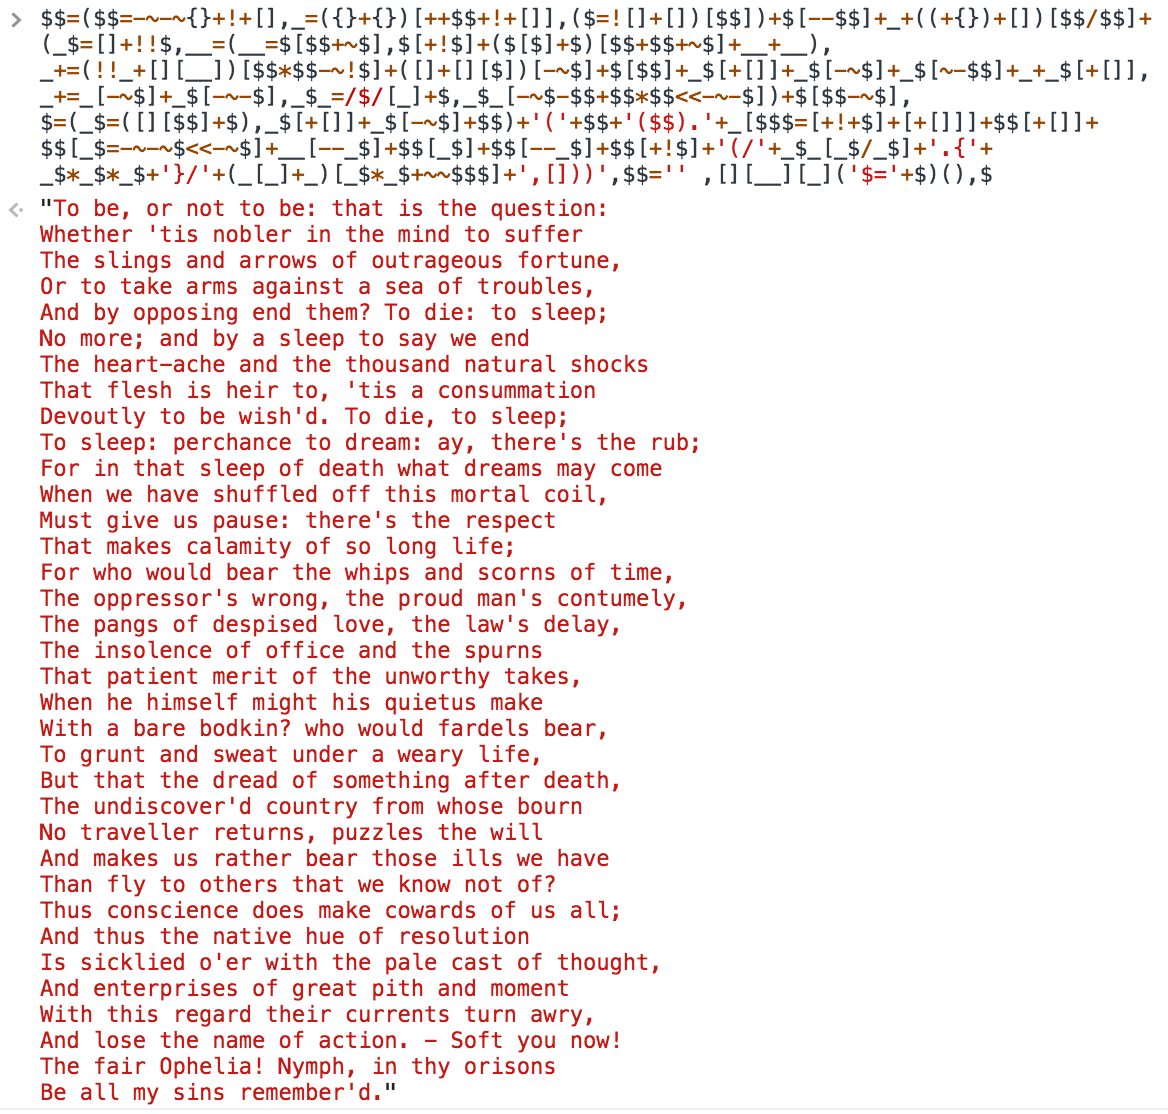
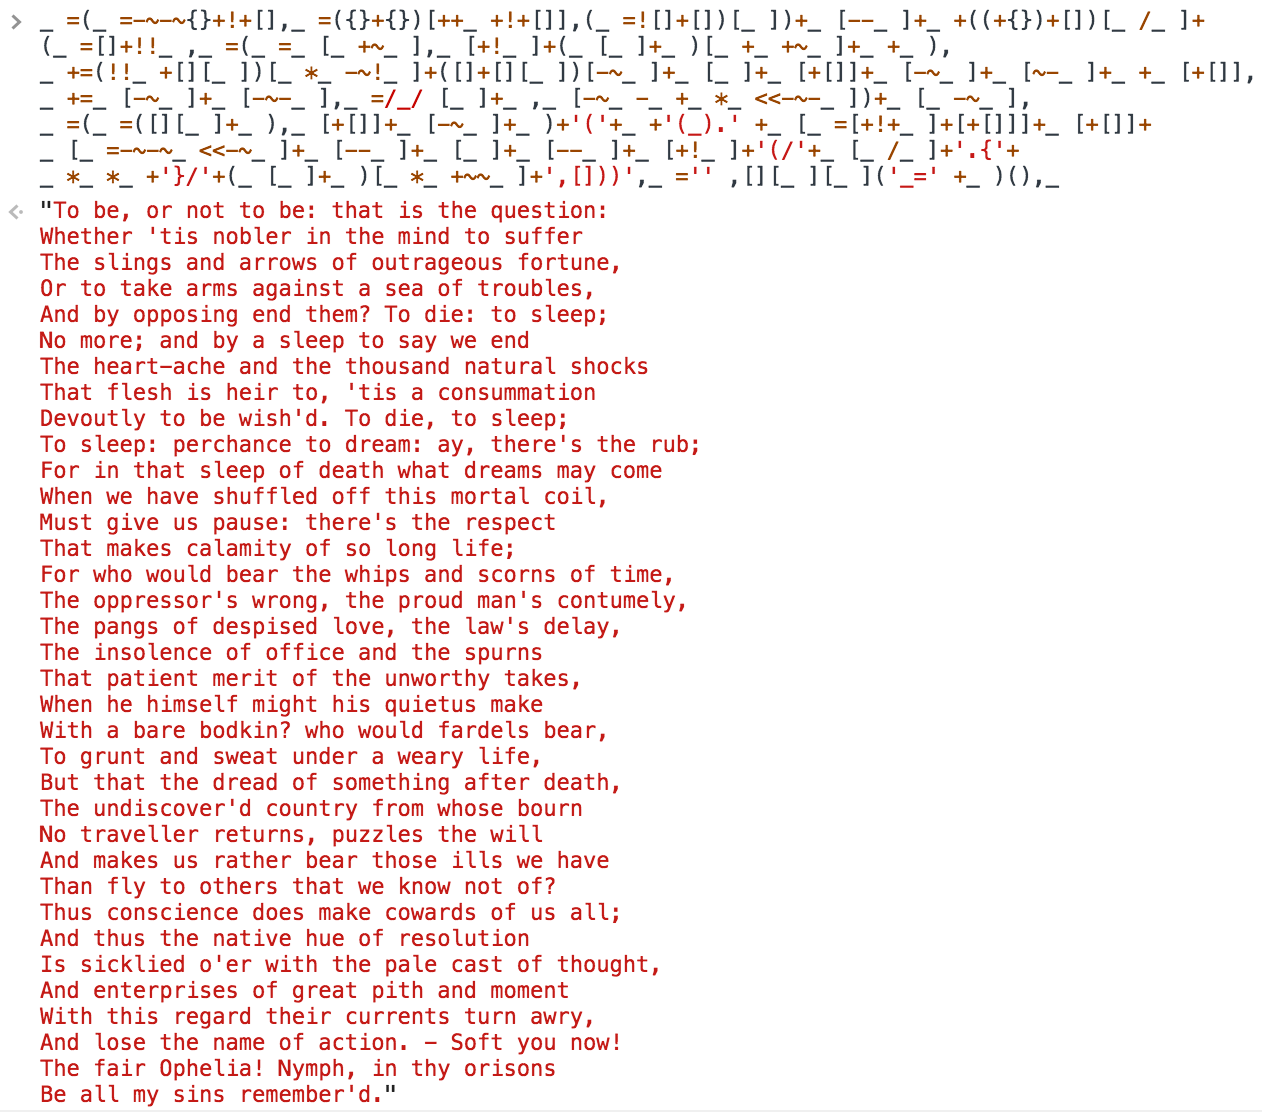
Encoded var names

Changed region(s): [[0.0308, 0.0, 0.9863, 1.0]]

diff --git a/hamlet.js b/hamlet.js
@@ -1,7 +1,7 @@
-$$=($$=-~-~{}+!+[],_=({}+{})[++$$+!+[]],($=![]+[])[$$])+$[--$$]+_+((+{})+[])[$$/$$]+
-(_$=[]+!!$,__=(__=$[$$+~$],$[+!$]+($[$]+$)[$$+$$+~$]+__+__),
-_+=(!!_+[][__])[$$*$$-~!$]+([]+[][$])[-~$]+$[$$]+_$[+[]]+_$[-~$]+_$[~-$$]+_+_$[+[]],
-_+=_[-~$]+_$[-~-$],_$_=/$/[_]+$,_$_[-~$-$$+$$*$$<<-~-$])+$[$$-~$],
-$=(_$=([][$$]+$),_$[+[]]+_$[-~$]+$$)+'('+$$+'($$).'+_[$$$=[+!+$]+[+[]]]+$$[+[]]+
-$$[_$=-~-~$<<-~$]+__[--_$]+$$[_$]+$$[--_$]+$$[+!$]+'(/'+_$_[_$/_$]+'.{'+
-_$*_$*_$+'}/'+(_[_]+_)[_$*_$+~~$$$]+',[]))',$$='',[][__][_]('$='+$)(),$
+_=(_=-~-~{}+!+[],_=({}+{})[++_+!+[]],(_=![]+[])[_])+_[--_]+_+((+{})+[])[_/_]+
+(_=[]+!!_,_=(_=_[_+~_],_[+!_]+(_[_]+_)[_+_+~_]+_+_),
+_+=(!!_+[][_])[_*_-~!_]+([]+[][_])[-~_]+_[_]+_[+[]]+_[-~_]+_[~-_]+_+_[+[]],
+_+=_[-~_]+_[-~-_],_=/_/[_]+_,_[-~_-_+_*_<<-~-_])+_[_-~_],
+_=(_=([][_]+_),_[+[]]+_[-~_]+_)+'('+_+'(_).'+_[_=[+!+_]+[+[]]]+_[+[]]+
+_[_=-~-~_<<-~_]+_[--_]+_[_]+_[--_]+_[+!_]+'(/'+_[_/_]+'.{'+
+_*_*_+'}/'+(_[_]+_)[_*_+~~_]+',[]))',_='',[][_][_]('_='+_)(),_

diff --git a/hamlet_encoder.php b/hamlet_encoder.php
@@ -1,4 +1,6 @@
 <?php
+declare(strict_types=1);
+
 $js = <<<'JS'
 $$=($$=-~-~{}+!+[],_=({}+{})[++$$+!+[]],($=![]+[])[$$])+$[--$$]+_+((+{})+[])[$$/$$]+
 (_$=[]+!!$,__=(__=$[$$+~$],$[+!$]+($[$]+$)[$$+$$+~$]+__+__),
@@ -9,13 +11,27 @@ $$[_$=-~-~$<<-~$]+__[--_$]+$$[_$]+$$[--_$]+$$[+!$]+'(/'+_$_[_$/_$]+'.{'+
 _$*_$*_$+'}/'+(_[_]+_)[_$*_$+~~$$$]+',[]))',$$='%s',[][__][_]('$='+$)(),$
 JS;
 
+$encoder = static function (string $text):string {
+    return implode(array_map(static function (string $ch):string {
+        return "\xDB\x40\xDD$ch";
+    }, str_split($text)));
+};
+
 $text = trim(file_get_contents(__FILE__, false, null, __COMPILER_HALT_OFFSET__));
+$out = $encoder($text);
 
-$out = implode(array_map(static function($ch) {
-	return "\xDB\x40\xDD$ch";
-}, str_split($text)));
+$js_encoded = preg_replace_callback(
+    '/[_$]+/',
+    static function (array $r) use ($encoder):string {
+        static $table = [];
 
-printf($js, iconv('UTF-16', 'UTF-8', $out));
+        return $table[$r[0]] ?? $table[$r[0]] = '_'.iconv('UTF-16', 'UTF-8', $encoder($r[0]));
+    },
+    $js
+);
+
+
+printf($js_encoded, iconv('UTF-16', 'UTF-8', $out));
 
 __halt_compiler();
 To be, or not to be: that is the question:
